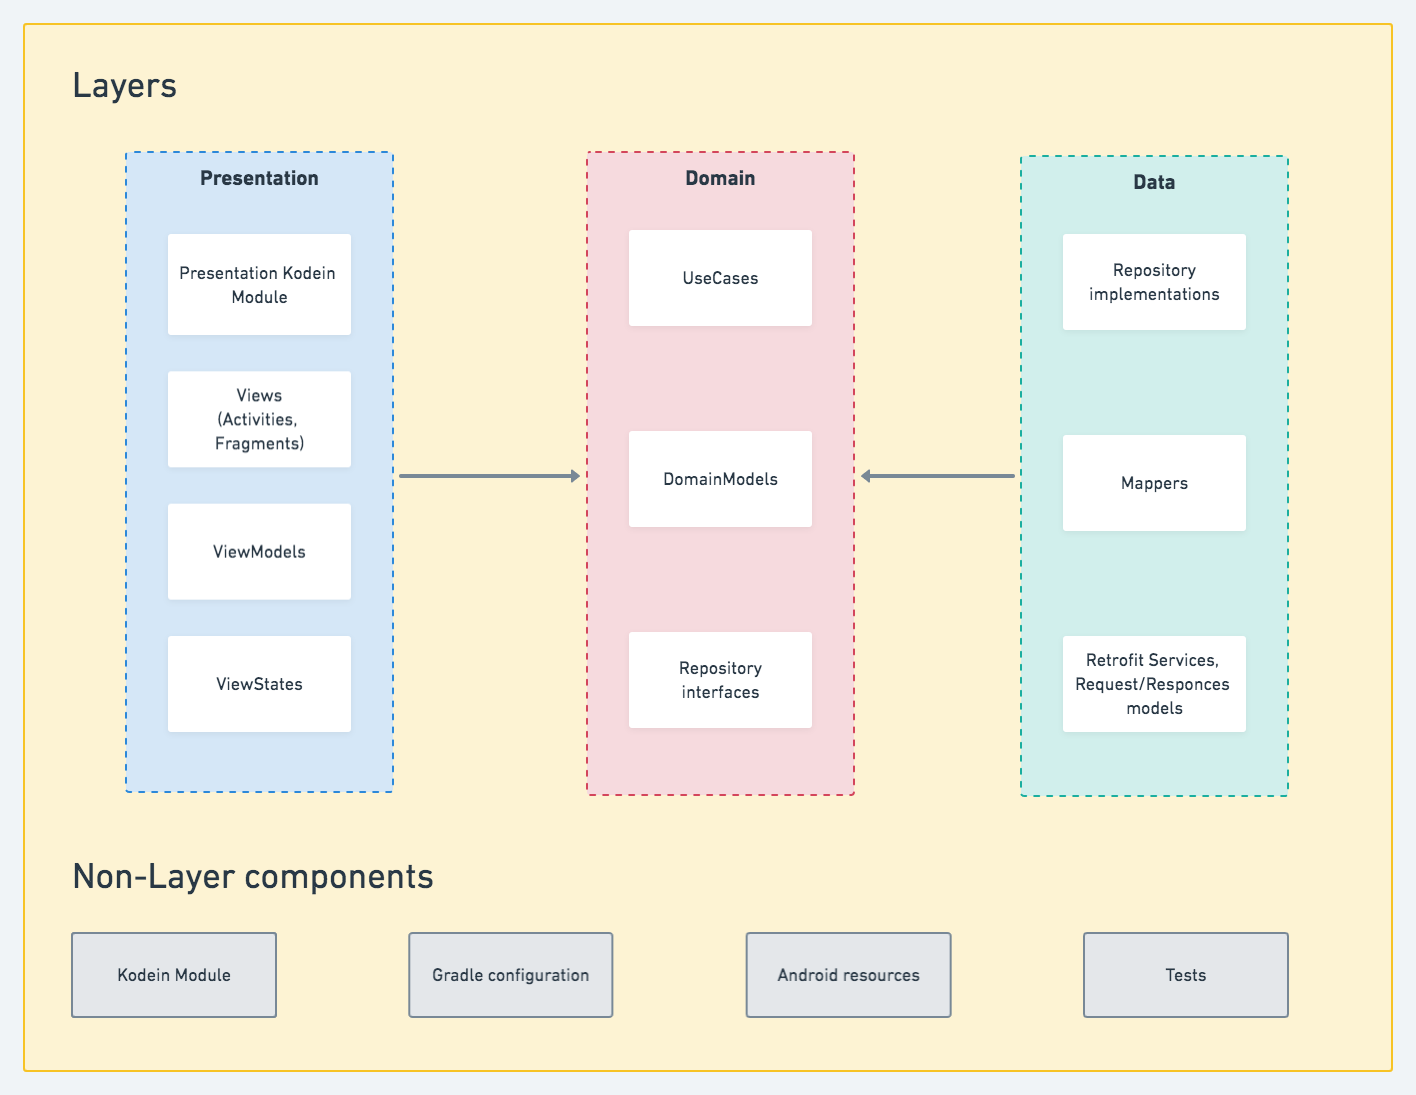
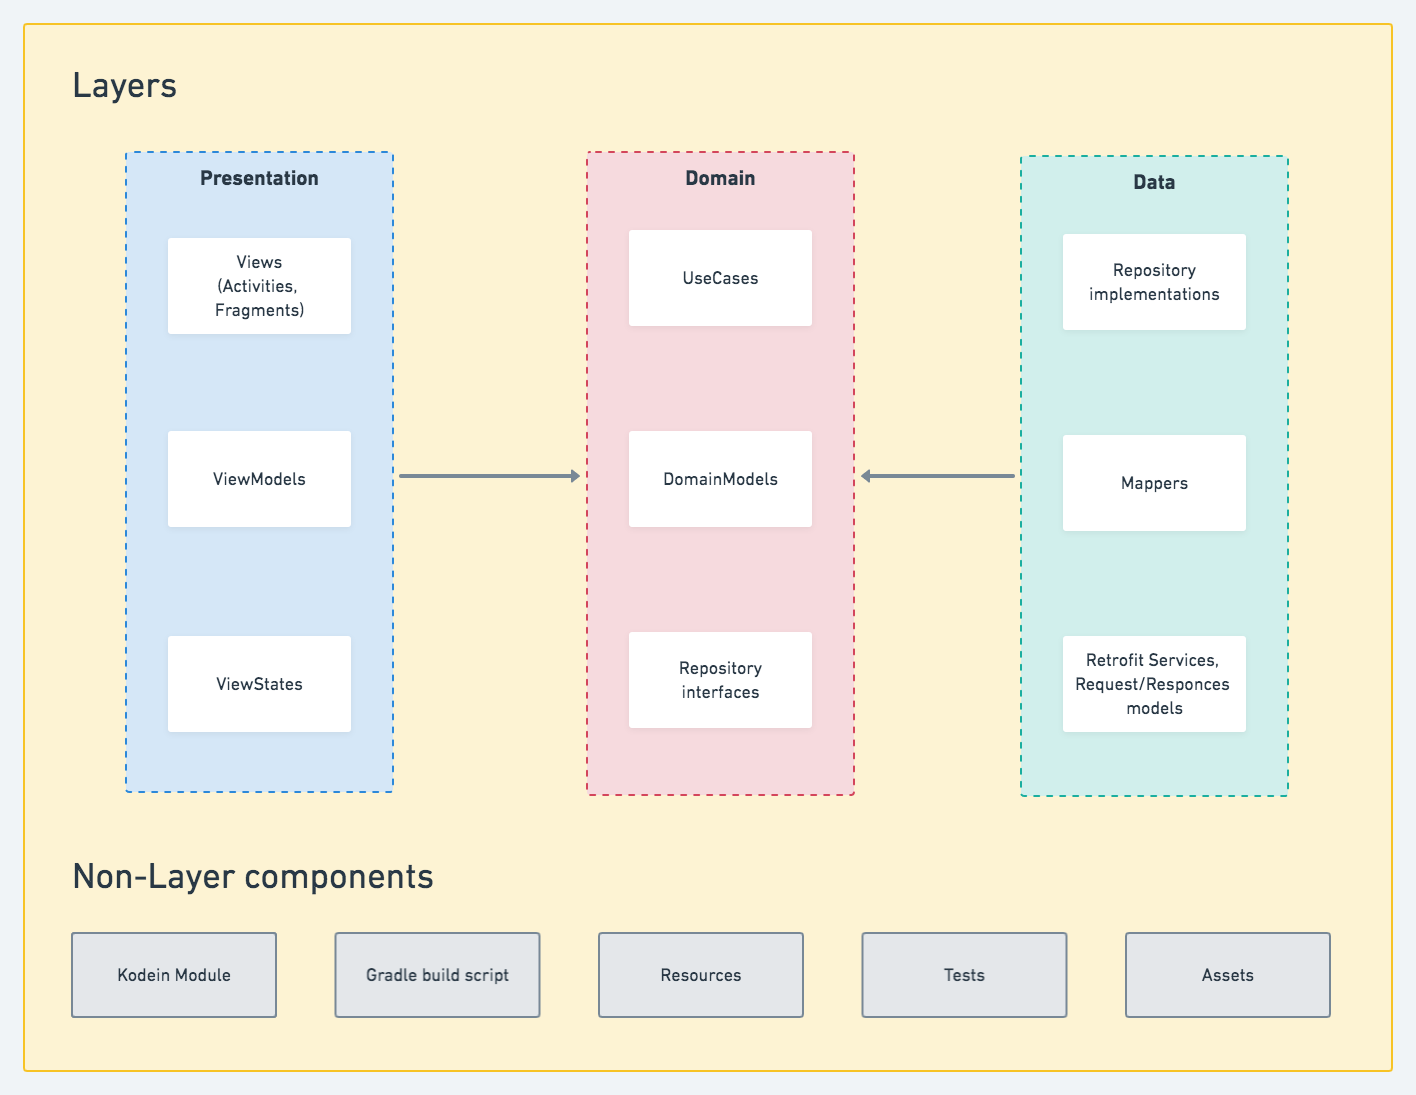
Added responsibilities to README (#26)

diff --git a/README.md b/README.md
@@ -94,26 +94,73 @@ Each feature module contains own set of the `Clean Architecture` layers:
 
 ![feature_structure](https://github.com/igorwojda/android-showcase/blob/master/misc/image/module_dependencies_layers.png?raw=true)
 
-Each layer has a distinct set of responsibilities:
-- `Presentation layer` - responsible for presenting data to a screen and handling user interactions.
-- `Domain layer` - contains `UseCases` (business logic) and supporting domain models (entities).
-- `Data layer` - encapsulates the source of the data (eg. network, memory cache, local database...) and serves as
-  unified access point to the data for `Domain` layer.
-
-![feature_structure](https://github.com/igorwojda/android-showcase/blob/master/misc/image/feature_structure.png?raw=true)
-
-`Clean architecture` is the "core architecture" of the application. `Presentation` layer is as mix of `MVVM` (Jetpack
-`ViewModel` used to preserve data across activity restart) and `MVI` (`actions` modify `common state` of the view and
-then new state is edited to a view via `LiveData` to be rendered).
-
-> `common state` (for each view) approach derives from
-> [Unidirectional Data Flow](https://en.wikipedia.org/wiki/Unidirectional_Data_Flow_(computer_science)) and [Redux
-> principles](https://redux.js.org/introduction/three-principles).
+### Layers
+`Clean architecture` is the "core architecture" of the application.
 
 Let's take a look at two common android cases when view state can be lost:
 - Activity restart - view state should be restored from `ViewModel` state (last value emitted by `LiveData`)
 - Process restart - view state should be restored from `Repository` (whatever data comes from the local cache or
   network)
+
+
+Layer separate crucial parts of the application at the high level:
+- `Presentation layer` - presents data to a screen and handling user interactions
+- `Domain layer` - holds business logic
+- `Data layer` - access, retrieve and manage application data
+
+![feature_structure](https://github.com/igorwojda/android-showcase/blob/master/misc/image/feature_structure.png?raw=true)
+
+Each layer contains multiple components with distinct set of responsibilities:
+
+**Presentation layer**
+
+`Presentation` layer is as combination of `MVVM` (Jetpack
+`ViewModel` used to preserve data across activity restart) and `MVI` (`actions` modify `common state` of the view and
+then new state is edited to a view via `LiveData` to be rendered). `common state` (for each view) approach derives from  
+[Unidirectional Data Flow](https://en.wikipedia.org/wiki/Unidirectional_Data_Flow_(computer_science)) and  [Redux principles](https://redux.js.org/introduction/three-principles).
+
+-  ViewModel
+   -  Manage view `common state`
+   -  Expose `common state` to a view (via `LiveData`)
+   -  Receive `actions` from the view
+   -  Execute `UseCase`
+- View
+  -  Inflate own layout
+  -  Observer `common state` changes
+  -  Render itself (from received `common state`)
+     - Load images
+     - Play animations
+  - Set data to `Adapter`
+  - Pass user input to `ViewModel` (send `actions`)
+  - Navigation (ToDo: this should be ViewModel responsibility)
+
+**Domain layer**
+
+Domain layer is the center layer of the application that does not depend on any other layer.
+
+- UseCase
+  - Contains business logic
+  - Retrieve/send data from/to `Repository`
+- Domain Model
+  -  Hold data (that usually support `UseCases`)
+
+**Data layer**
+Encapsulates the source of the data (eg. network, memory cache, local database...) and serves as unified access point to the data for `Domain` layer.
+
+- Repository
+  - Retrieve/send data from/to data source eg. `Retrofit service`
+  - Manages cache (ToDo: Add cache layer)
+- Retrofit service
+  - Retrieve/send data from/to network (via `Retrofit service`)
+- Mapper
+  - converts `Data Model` to domain model
+
+**Non-layer components**
+- Kodein Module - dependency injection configuration
+- Gradle build script - contains instruction how to build module and defines all required dependencies
+- Android resources - layouts, strings, drawables, colors, fonts, etc.
+- Android assets - similar to resource.
+- Tests - code that verifies application correctness
 
 ### Data flow
 
@@ -123,7 +170,7 @@ Below diagram presents application data flow when a user interacts with `album l
 
 ## Ci pipeline
 
-[CI pipeline](.circleci/config.yml) verifies project correctness witch each PR. Some of the tasks run in parallel, while
+[CI pipeline](.circleci/config.yml) verifies project correctness which each PR. Some of the tasks run in parallel, while
 others like `app build` will not be stared until all `static checks` and `tests` complete successfully:
 
 ![ci_pipeline.jpg](misc/image/ci_pipeline.jpg)
@@ -145,6 +192,7 @@ focus on application architecture.
 
 ## Upcoming improvements
 
+* Improve multi-module navigation
 * Android Dynamic delivery
 * Caching layer (memory + disk)
 * Add Room
